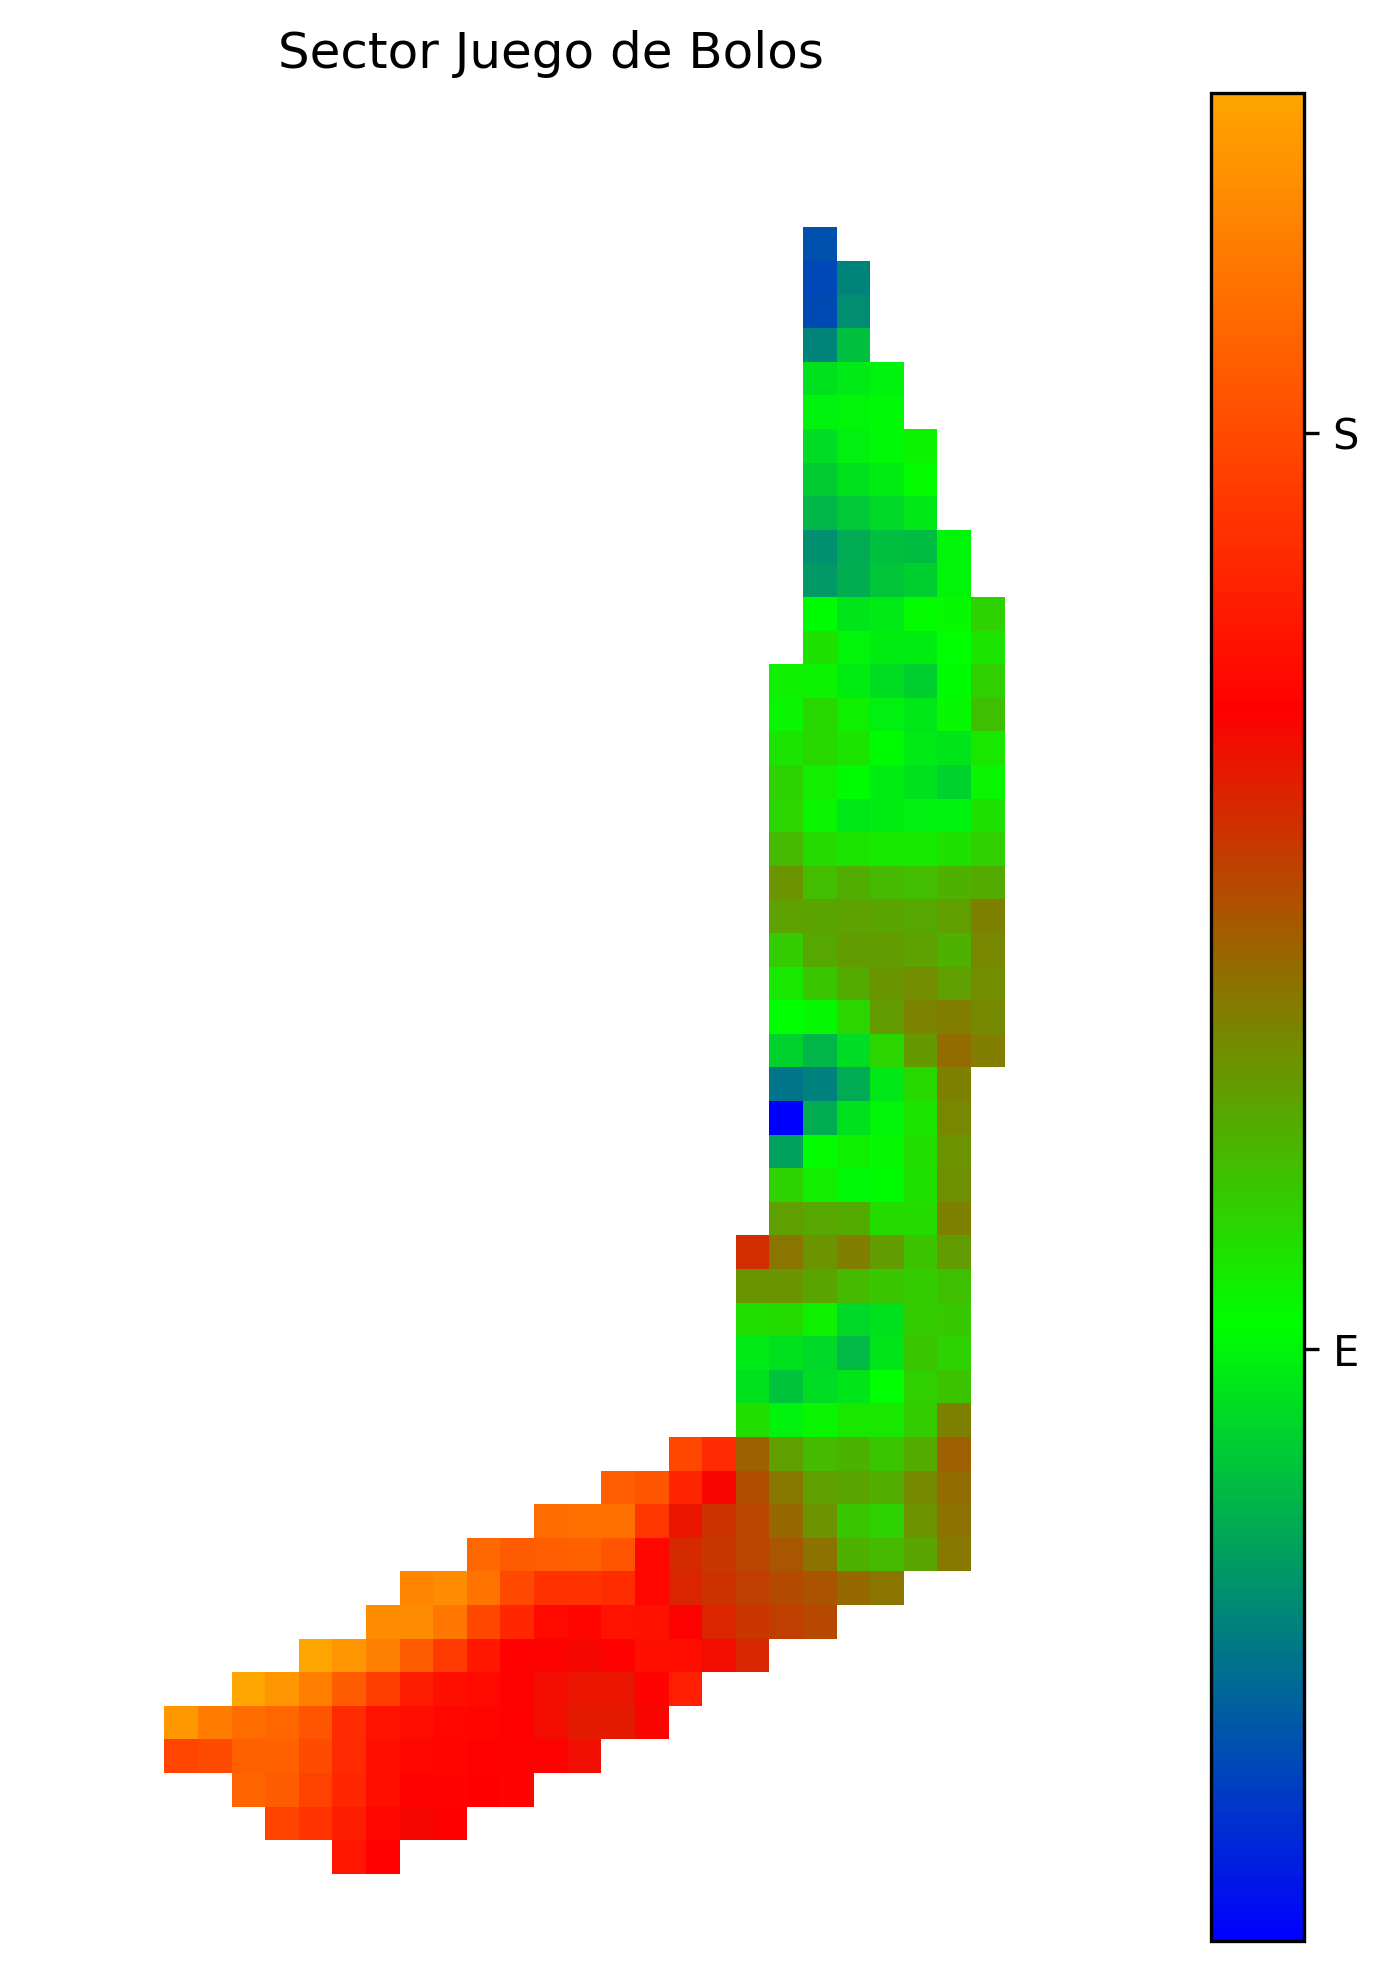
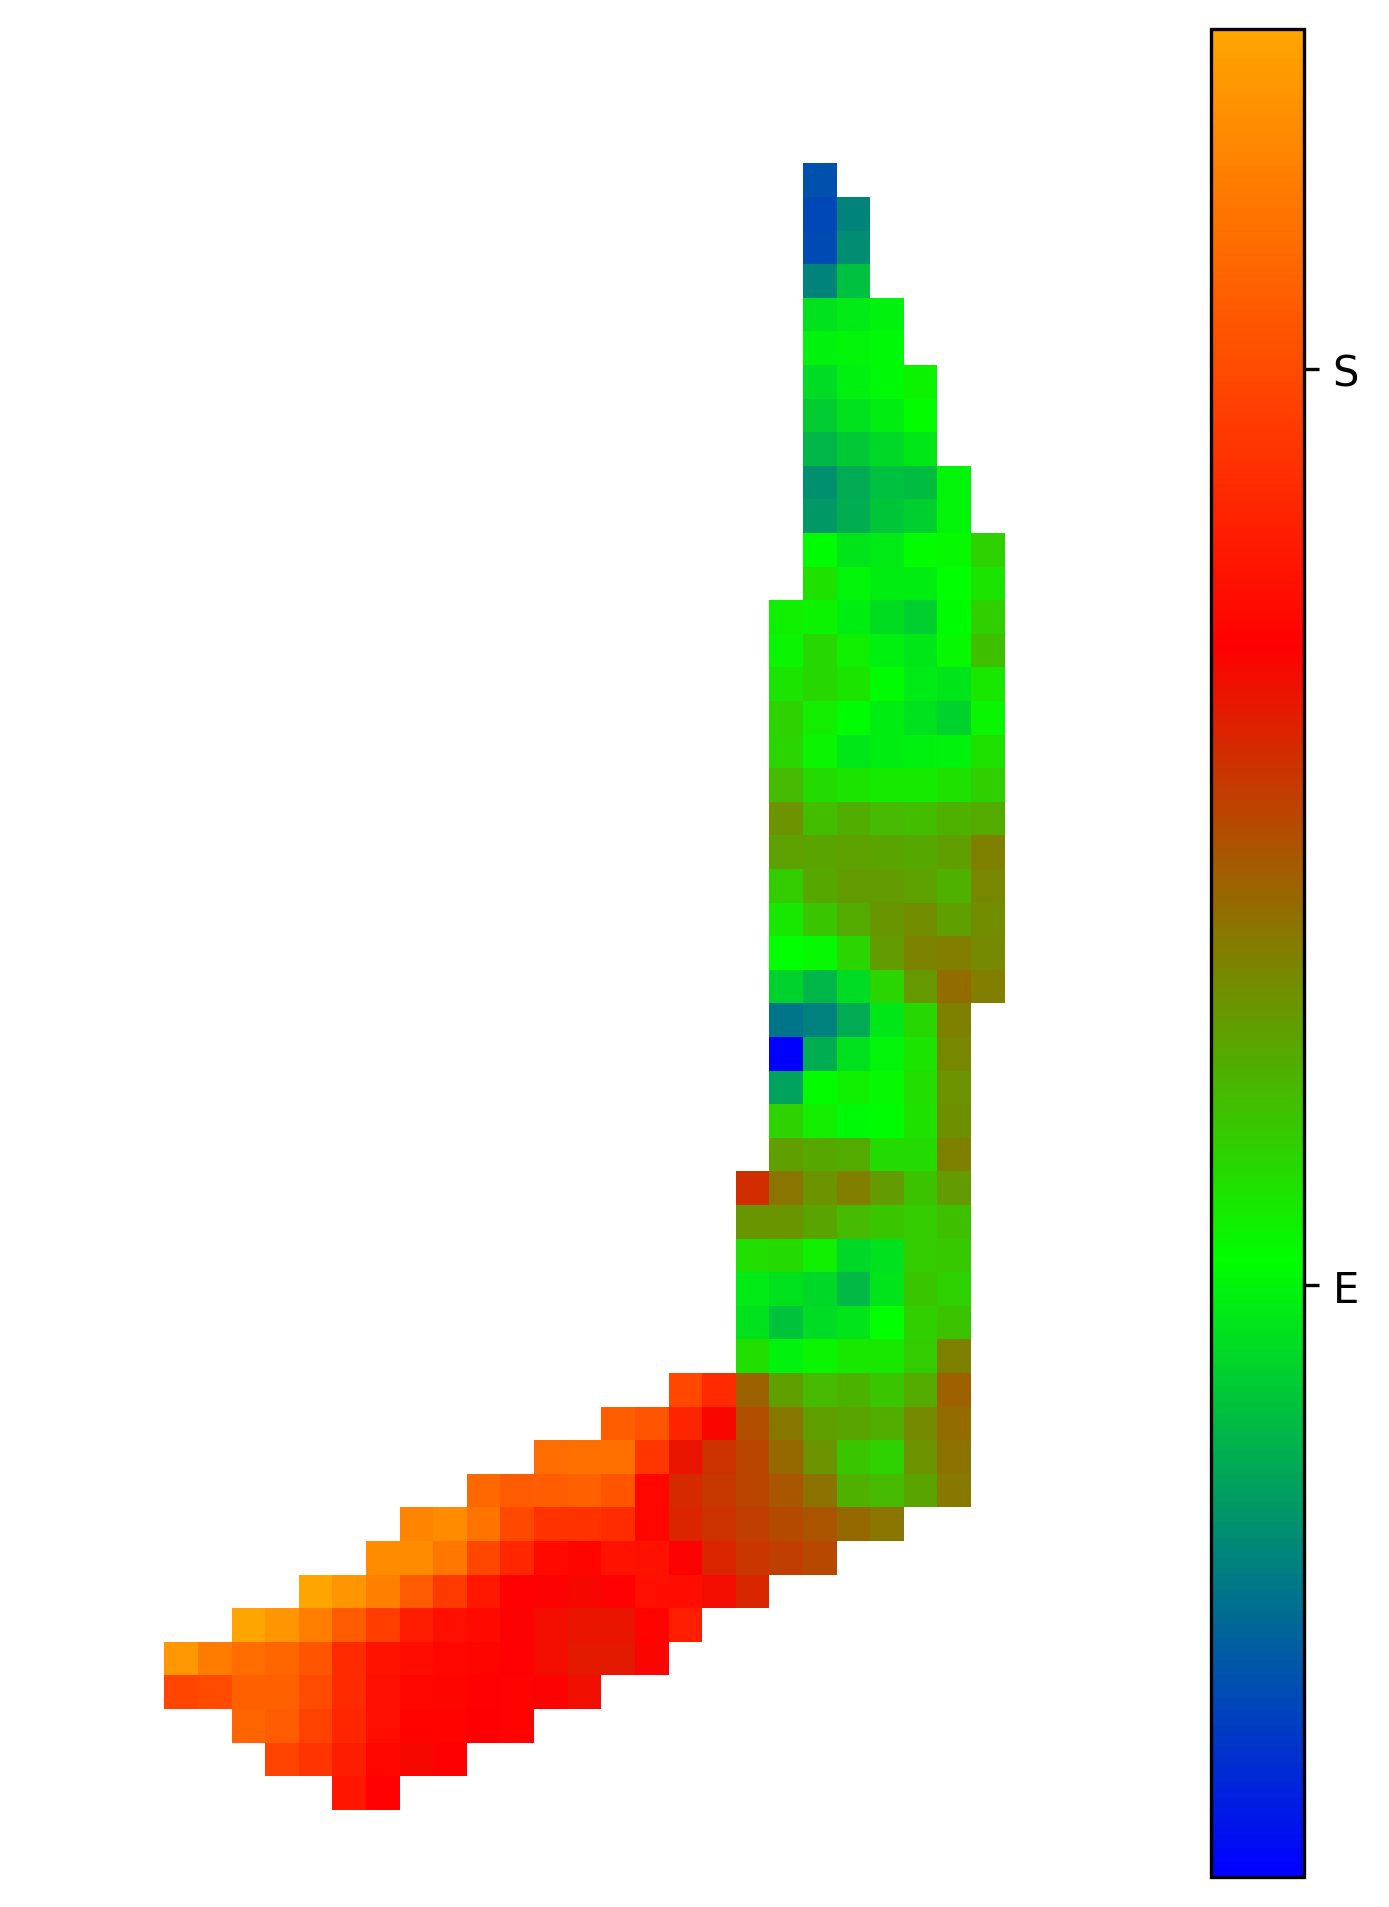
primeras mejoras en el frontend, cards explicativas

diff --git a/static/script.js b/static/script.js
@@ -1,3 +1,22 @@
+function shadeToColor(pct) {
+    const stops = [
+        { at: 0,   r: 245, g: 230, b: 200 },
+        { at: 50,  r: 168, g: 191, b: 212 },
+        { at: 100, r: 43,  g: 76,  b: 111 },
+    ];
+
+    const lo = [...stops].reverse().find(s => s.at <= pct) ?? stops[0];
+    const hi = stops.find(s => s.at > pct) ?? stops[stops.length - 1];
+    const t = lo.at === hi.at ? 0 : (pct - lo.at) / (hi.at - lo.at);
+
+    const r = Math.round(lo.r + t * (hi.r - lo.r));
+    const g = Math.round(lo.g + t * (hi.g - lo.g));
+    const b = Math.round(lo.b + t * (hi.b - lo.b));
+
+    return { bg: `rgb(${r},${g},${b})`, text: pct > 55 ? 'white' : '#2c2c2c' };
+}
+
+
 window.onload = async () => {
     document.getElementById("loader").classList.add("hidden");
 
@@ -5,6 +24,10 @@ window.onload = async () => {
     document.getElementById("sectorsTable").style.display = "none";
     document.getElementById("backBtn").style.display = "none";
     document.getElementById("simulationPanel").style.display = "none";
+
+    document.getElementById("infoCardCrags").style.display = "flex";
+    document.getElementById("infoCardSectors").style.display = "none";
+    document.getElementById("hintCrags").style.display = "block";
 
     setTitle("Escuelas de escalada");
 
@@ -49,11 +72,14 @@ async function loadCrags() {
         `;
 
         tr.onclick = async () => {
-
             document.getElementById("cragsTable").style.display = "none";
             document.getElementById("sectorsTable").style.display = "table";
             document.getElementById("simulationPanel").style.display = "none";
-            document.getElementById("backBtn").style.display = "block"; // ✅ RESTAURADO
+            document.getElementById("backBtn").style.display = "block";
+
+            document.getElementById("infoCardCrags").style.display = "none";
+            document.getElementById("infoCardSectors").style.display = "flex";
+            document.getElementById("hintCrags").style.display = "none";
 
             setTitle(`Sectores de ${crag.nombre}`);
 
@@ -80,7 +106,6 @@ async function loadSectors(cragId) {
     emptyState.style.display = "none";
 
     if (!data || data.length === 0) {
-
         document.getElementById("sectorsTable").style.display = "none";
 
         emptyState.style.display = "block";
@@ -115,7 +140,6 @@ async function loadSectors(cragId) {
         `;
 
         tr.onclick = () => {
-
             if (selectedSectorRow) {
                 selectedSectorRow.classList.remove("selected");
             }
@@ -134,7 +158,6 @@ async function loadSectors(cragId) {
 
 
 document.getElementById("simulateBtn").onclick = async () => {
-
     const day = document.getElementById("day").value;
     const month = document.getElementById("month").value;
     const year = document.getElementById("year").value;
@@ -148,7 +171,6 @@ document.getElementById("simulateBtn").onclick = async () => {
 };
 
 async function loadShade(day, month, year) {
-
     const container = document.getElementById("shadeData");
     const mapContainer = document.getElementById("mapContainer");
 
@@ -183,17 +205,20 @@ async function loadShade(day, month, year) {
         let first = true;
 
         Object.keys(walls).forEach(id => {
-
             const btn = document.createElement("button");
             btn.textContent = `Pared ${id}`;
 
             const render = () => {
                 content.innerHTML = "";
 
-                walls[id].forEach(t => {
+                walls[id].forEach(item => {
+                    const pct = parseFloat(item.match(/([\d.]+)%/)?.[1] ?? 0);
+                    const { bg, text } = shadeToColor(pct);
                     const div = document.createElement("div");
                     div.className = "card";
-                    div.textContent = t;
+                    div.textContent = item;
+                    div.style.backgroundColor = bg;
+                    div.style.color = text;
                     content.appendChild(div);
                 });
 
@@ -216,7 +241,6 @@ async function loadShade(day, month, year) {
         img.src = "/static/juego_de_bolos_recortado.png?v=" + Date.now();
         img.style.width = "100%";
         img.style.borderRadius = "10px";
-
         mapContainer.appendChild(img);
 
     } catch (err) {
@@ -227,7 +251,6 @@ async function loadShade(day, month, year) {
 }
 
 document.getElementById("backBtn").onclick = () => {
-
     document.getElementById("cragsTable").style.display = "table";
     document.getElementById("sectorsTable").style.display = "none";
     document.getElementById("simulationPanel").style.display = "none";
@@ -238,6 +261,10 @@ document.getElementById("backBtn").onclick = () => {
 
     document.getElementById("emptyState").innerHTML = "";
     document.getElementById("emptyState").style.display = "none";
+
+    document.getElementById("infoCardCrags").style.display = "flex";
+    document.getElementById("infoCardSectors").style.display = "none";
+    document.getElementById("hintCrags").style.display = "block";
 
     selectedSectorRow = null;
 

diff --git a/templates/index.html b/templates/index.html
@@ -13,6 +13,16 @@
   <body>
     <h1>ShadeClimb</h1>
 
+    <div id="infoCardCrags" class="info-card">
+      <div class="info-card-body">
+        <p>
+          ShadeClimb te ayuda a planificar tus salidas de escalada calculando la
+          incidencia del sol en cada pared según el día que elijas. Selecciona
+          una escuela para empezar.
+        </p>
+      </div>
+    </div>
+
     <h2 id="mainTitle">Escuelas de escalada</h2>
 
     <table id="cragsTable">
@@ -26,6 +36,16 @@
       <tbody></tbody>
     </table>
 
+    <div id="hintCrags" class="hint-text">
+      Haz clic en una escuela para ver sus sectores
+    </div>
+
+    <div id="infoCardSectors" class="info-card" style="display: none">
+      <div class="info-card-body">
+        <p>Haz clic en un sector para simular la incidencia solar</p>
+      </div>
+    </div>
+
     <table id="sectorsTable" style="display: none">
       <thead>
         <tr>
@@ -38,12 +58,26 @@
       <tbody></tbody>
     </table>
 
+    <div id="hintSectors" class="hint-text" style="display: none">
+      Haz clic en un sector para simular la incidencia solar
+    </div>
+
     <div id="emptyState" style="display: none"></div>
 
     <h2 id="selectedTitle" style="display: none"></h2>
 
     <div id="simulationPanel" style="display: none">
       <h3>Simulación solar</h3>
+
+      <div id="infoCardSimulation" class="info-card">
+        <div class="info-card-body">
+          <p>
+            Introduce el día en el que planeas escalar. El sistema calculará la
+            posición del sol hora a hora y estimará qué porcentaje de cada pared
+            estará en sombra a lo largo del día.
+          </p>
+        </div>
+      </div>
 
       <div class="simInputs">
         <input type="number" id="day" placeholder="Día" min="1" max="31" />

diff --git a/static/styles.css b/static/styles.css
@@ -52,7 +52,7 @@ tr:hover {
 #mapContainer {
     flex: 2;
     max-width: 40%;
-    margin-top: 42px;  
+    margin-top: 42px;
 }
 
 #mapContainer img {
@@ -100,7 +100,7 @@ tr:hover {
 }
 
 #loader.active {
-    display:flex
+    display: flex;
 }
 
 .spinner {
@@ -193,9 +193,46 @@ tr:hover {
     justify-content: center;
 
     margin-top: 20px;
-    margin-left: 8px; /* 👈 separación del último input */
+    margin-left: 8px;
 }
 
 #simulateBtn:hover {
     background: #1f2a36;
+}
+
+.info-card {
+    display: flex;
+    justify-content: center;
+    align-items: center;
+    background: #f0f4f8;
+    border: 1px solid #d9e2ec;
+    border-radius: 10px;
+    padding: 14px 20px;
+    margin: 12px auto;
+    width: 80%;
+    font-size: 16px;
+    color: #2c3e50;
+    line-height: 1.6;
+}
+
+.info-card-body {
+    text-align: center;
+}
+
+.info-card-body strong {
+    display: block;
+    margin-bottom: 6px;
+    font-size: 15px;
+}
+
+.info-card-body p {
+    margin: 0;
+}
+
+.hint-text {
+    font-size: 15px;
+    color: #888;
+    margin: 4px auto 16px;
+    width: 80%;
+    text-align: center;
 }

diff --git a/src/main.py b/src/main.py
@@ -51,7 +51,7 @@ def main(day, month, year):
 
     # Como queremos dar información genérica, además de la específica de la orientación general de la pared, añadimos la columna de "orientación media" en nuestro objeto Geodataframe, así como una columna para cada hora en la que mostraremos qué porcentaje de sombra está incidiendo
     walls["mean_aspect_deg"] = np.nan
-    for hour in range(5, 23):
+    for hour in range(4, 23):
         walls[f"shade_{hour:02d}"] = np.nan
 
     # ponemos las coordenadas de cuenca para calcular una altitud y azimut aproximado del sol
@@ -81,7 +81,7 @@ def main(day, month, year):
             # actualizamos nuestro array con la orientación obtenida en grados, para facilitar la asignación de colores en la generación posterior del plot
             aspect_deg_masked[polygon_wall_pixels] = aspects_deg
             # calculamos el porcentaje de sombra de cada polígono para cada hora del día
-            for hour in range(5, 23):
+            for hour in range(4, 23):
                 dt = datetime(
                     year, month, day, hour, 0, 0, tzinfo=tz
                 )  # fecha hardcodeada de momento
@@ -156,7 +156,6 @@ def main(day, month, year):
     cbar = plt.colorbar(im, ticks=ticks)
     cbar.ax.set_yticklabels(labels)
 
-    ax.set_title("Sector Juego de Bolos")  # hardcodeado por ahora
     ax.axis("off")
 
     plt.savefig(

diff --git a/src/db.py b/src/db.py
@@ -4,9 +4,9 @@ import os
 
 # para producción estas variables estaría definidas en un archivo .env, pero para facilitar la corrección y testing se ha optado por exponer las credenciales, teniendo la base de datos un muestra trivial de información
 DB_NAME = "Crags_db"
-DB_USER = "postgres"
+DB_USER = "postgres"  # Shadeclimb_user
 DB_PW = "ABC123"
-DB_HOST = "db"
+DB_HOST = "db"  # localhost
 
 
 def get_connection():
